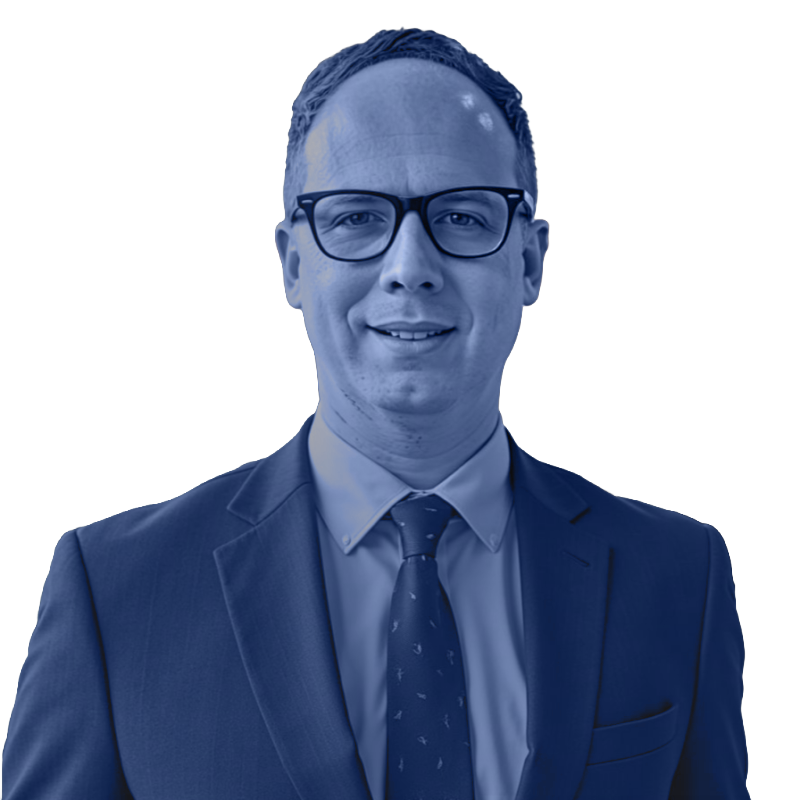
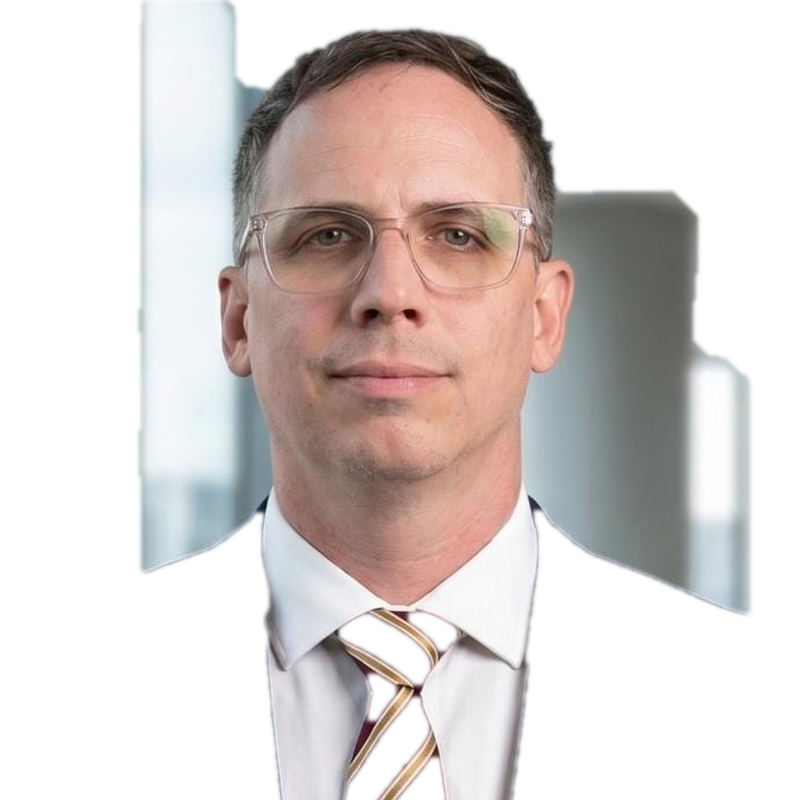
Add files via upload

diff --git a/index.html b/index.html
@@ -322,7 +322,7 @@
       </div>
       <div class="sec-bar-item">
         <div class="sec-bar-label">
-          <span class="sec-bar-name">Agro</span>
+          <span class="sec-bar-name">Agroindustria y Alimentos</span>
           <span class="sec-bar-pct">58%</span>
         </div>
         <div class="sec-bar-track"><div class="sec-bar-fill" style="--pct:58%"></div></div>
@@ -400,7 +400,7 @@
           <h3 class="q-name">Gonzalo Fernández Somoza</h3>
           <p class="q-bio">Administrador de Empresas. Especialista en transformación operacional, estrategia de negocios e IA aplicada a la eficiencia empresarial. Más de una década asesorando PyMEs en Argentina.</p>
           <div class="q-social">
-            <a href="https://wa.me/5491161671305" class="q-social-link" target="_blank" rel="noopener" aria-label="WhatsApp">
+            <a href="https://wa.me/5491153774508" class="q-social-link" target="_blank" rel="noopener" aria-label="WhatsApp">
               <svg viewBox="0 0 30 30" fill="currentColor"><path d="M 15 3 C 8.373 3 3 8.373 3 15 C 3 17.251208 3.6323415 19.350068 4.7109375 21.150391 L 3.1074219 27 L 9.0820312 25.431641 C 10.829354 26.425062 12.84649 27 15 27 C 21.627 27 27 21.627 27 15 C 27 8.373 21.627 3 15 3 z M 10.892578 9.4023438 C 11.087578 9.4023438 11.287937 9.4011562 11.460938 9.4101562 C 11.674938 9.4151563 11.907859 9.4308281 12.130859 9.9238281 C 12.395859 10.509828 12.972875 11.979906 13.046875 12.128906 C 13.120875 12.277906 13.173313 12.453437 13.070312 12.648438 C 12.972312 12.848437 12.921344 12.969484 12.777344 13.146484 C 12.628344 13.318484 12.465078 13.532109 12.330078 13.662109 C 12.181078 13.811109 12.027219 13.974484 12.199219 14.271484 C 12.371219 14.568484 12.968563 15.542125 13.851562 16.328125 C 14.986562 17.342125 15.944188 17.653734 16.242188 17.802734 C 16.540187 17.951734 16.712766 17.928516 16.884766 17.728516 C 17.061766 17.533516 17.628125 16.864406 17.828125 16.566406 C 18.023125 16.268406 18.222188 16.319969 18.492188 16.417969 C 18.766188 16.515969 20.227391 17.235766 20.525391 17.384766 C 20.823391 17.533766 21.01875 17.607516 21.09375 17.728516 C 21.17075 17.853516 21.170828 18.448578 20.923828 19.142578 C 20.676828 19.835578 19.463922 20.505734 18.919922 20.552734 C 18.370922 20.603734 17.858562 20.7995 15.351562 19.8125 C 12.327563 18.6215 10.420484 15.524219 10.271484 15.324219 C 10.122484 15.129219 9.0605469 13.713906 9.0605469 12.253906 C 9.0605469 10.788906 9.8286563 10.071437 10.097656 9.7734375 C 10.371656 9.4754375 10.692578 9.4023438 10.892578 9.4023438 z"/></svg>
             </a>
             <a href="https://www.linkedin.com/in/gonzalo-fernandez-somoza-8723a7284/" class="q-social-link" target="_blank" rel="noopener" aria-label="LinkedIn">
@@ -489,7 +489,7 @@
 
       <form class="contact-form" id="contact-form">
         <input type="hidden" name="access_key" value="f116629d-7bd5-48ce-b28a-86ec5a387664">
-        <input type="hidden" name="subject" value="Nueva consulta desde jmmgfsconsultores.com">
+        <input type="hidden" name="subject" value="Nueva consulta desde gfsjmmconsultores.com">
         <input type="hidden" name="from_name" value="Web JMMGFS">
         <div class="cf-row">
           <div class="cf-field">
@@ -528,6 +528,9 @@
           <label class="cf-label" for="cf-msg">Mensaje</label>
           <textarea class="cf-input cf-textarea" id="cf-msg" name="mensaje" placeholder="Contanos brevemente tu situación o consulta…" rows="5" required></textarea>
         </div>
+        <div class="cf-field">
+          <div class="h-captcha" data-sitekey="TU_SITEKEY_DE_HCAPTCHA" data-theme="dark"></div>
+        </div>
         <button type="submit" class="cf-submit" id="cf-submit-btn">Enviar mensaje →</button>
       </form>
 
@@ -554,7 +557,7 @@
           <a href="https://instagram.com/jmmgfsconsultores" class="foot-social-link" target="_blank" rel="noopener" aria-label="Instagram">
             <svg viewBox="0 0 24 24" fill="currentColor"><path d="M12 2.163c3.204 0 3.584.012 4.85.07 3.252.148 4.771 1.691 4.919 4.919.058 1.265.069 1.645.069 4.849 0 3.205-.012 3.584-.069 4.849-.149 3.225-1.664 4.771-4.919 4.919-1.266.058-1.644.07-4.85.07-3.204 0-3.584-.012-4.849-.07-3.26-.149-4.771-1.699-4.919-4.92-.058-1.265-.07-1.644-.07-4.849 0-3.204.013-3.583.07-4.849.149-3.227 1.664-4.771 4.919-4.919 1.266-.057 1.645-.069 4.849-.069zM12 0C8.741 0 8.333.014 7.053.072 2.695.272.273 2.69.073 7.052.014 8.333 0 8.741 0 12c0 3.259.014 3.668.072 4.948.2 4.358 2.618 6.78 6.98 6.98C8.333 23.986 8.741 24 12 24c3.259 0 3.668-.014 4.948-.072 4.354-.2 6.782-2.618 6.979-6.98.059-1.28.073-1.689.073-4.948 0-3.259-.014-3.667-.072-4.947-.196-4.354-2.617-6.78-6.979-6.98C15.668.014 15.259 0 12 0zm0 5.838a6.162 6.162 0 100 12.324 6.162 6.162 0 000-12.324zM12 16a4 4 0 110-8 4 4 0 010 8zm6.406-11.845a1.44 1.44 0 100 2.881 1.44 1.44 0 000-2.881z"/></svg>
           </a>
-          <a href="https://wa.me/5491161671305" class="foot-social-link" target="_blank" rel="noopener" aria-label="WhatsApp">
+          <a href="https://wa.me/5491153774508" class="foot-social-link" target="_blank" rel="noopener" aria-label="WhatsApp">
             <svg viewBox="0 0 30 30" fill="currentColor"><path d="M 15 3 C 8.373 3 3 8.373 3 15 C 3 17.251208 3.6323415 19.350068 4.7109375 21.150391 L 3.1074219 27 L 9.0820312 25.431641 C 10.829354 26.425062 12.84649 27 15 27 C 21.627 27 27 21.627 27 15 C 27 8.373 21.627 3 15 3 z M 10.892578 9.4023438 C 11.087578 9.4023438 11.287937 9.4011562 11.460938 9.4101562 C 11.674938 9.4151563 11.907859 9.4308281 12.130859 9.9238281 C 12.395859 10.509828 12.972875 11.979906 13.046875 12.128906 C 13.120875 12.277906 13.173313 12.453437 13.070312 12.648438 C 12.972312 12.848437 12.921344 12.969484 12.777344 13.146484 C 12.628344 13.318484 12.465078 13.532109 12.330078 13.662109 C 12.181078 13.811109 12.027219 13.974484 12.199219 14.271484 C 12.371219 14.568484 12.968563 15.542125 13.851562 16.328125 C 14.986562 17.342125 15.944188 17.653734 16.242188 17.802734 C 16.540187 17.951734 16.712766 17.928516 16.884766 17.728516 C 17.061766 17.533516 17.628125 16.864406 17.828125 16.566406 C 18.023125 16.268406 18.222188 16.319969 18.492188 16.417969 C 18.766188 16.515969 20.227391 17.235766 20.525391 17.384766 C 20.823391 17.533766 21.01875 17.607516 21.09375 17.728516 C 21.17075 17.853516 21.170828 18.448578 20.923828 19.142578 C 20.676828 19.835578 19.463922 20.505734 18.919922 20.552734 C 18.370922 20.603734 17.858562 20.7995 15.351562 19.8125 C 12.327563 18.6215 10.420484 15.524219 10.271484 15.324219 C 10.122484 15.129219 9.0605469 13.713906 9.0605469 12.253906 C 9.0605469 10.788906 9.8286563 10.071437 10.097656 9.7734375 C 10.371656 9.4754375 10.692578 9.4023438 10.892578 9.4023438 z"/></svg>
           </a>
           <a href="https://linkedin.com/company/jmmgfsconsultores" class="foot-social-link" target="_blank" rel="noopener" aria-label="LinkedIn">
@@ -590,9 +593,9 @@
         <h4>Contacto</h4>
         <p class="foot-contact-data">
           <strong>Email</strong><br>
-          gfs@jmmgfsconsultores.com<br><br>
+          fernandez.gonzalo@gfsjmmconsultores.com<br><br>
           <strong>WhatsApp</strong><br>
-          +54 9 11 6167-1305<br><br>
+          +54 9 11 5377-4508<br><br>
           <strong>Ubicación</strong><br>
           Buenos Aires, Argentina
         </p>
@@ -610,12 +613,13 @@
   </footer>
 
   <!-- Floating WhatsApp -->
-  <a href="https://wa.me/5491161671305" class="wa-float" target="_blank" rel="noopener" aria-label="WhatsApp">
+  <a href="https://wa.me/5491153774508" class="wa-float" target="_blank" rel="noopener" aria-label="WhatsApp">
     <svg viewBox="0 0 30 30" fill="currentColor"><path d="M 15 3 C 8.373 3 3 8.373 3 15 C 3 17.251208 3.6323415 19.350068 4.7109375 21.150391 L 3.1074219 27 L 9.0820312 25.431641 C 10.829354 26.425062 12.84649 27 15 27 C 21.627 27 27 21.627 27 15 C 27 8.373 21.627 3 15 3 z M 10.892578 9.4023438 C 11.087578 9.4023438 11.287937 9.4011562 11.460938 9.4101562 C 11.674938 9.4151563 11.907859 9.4308281 12.130859 9.9238281 C 12.395859 10.509828 12.972875 11.979906 13.046875 12.128906 C 13.120875 12.277906 13.173313 12.453437 13.070312 12.648438 C 12.972312 12.848437 12.921344 12.969484 12.777344 13.146484 C 12.628344 13.318484 12.465078 13.532109 12.330078 13.662109 C 12.181078 13.811109 12.027219 13.974484 12.199219 14.271484 C 12.371219 14.568484 12.968563 15.542125 13.851562 16.328125 C 14.986562 17.342125 15.944188 17.653734 16.242188 17.802734 C 16.540187 17.951734 16.712766 17.928516 16.884766 17.728516 C 17.061766 17.533516 17.628125 16.864406 17.828125 16.566406 C 18.023125 16.268406 18.222188 16.319969 18.492188 16.417969 C 18.766188 16.515969 20.227391 17.235766 20.525391 17.384766 C 20.823391 17.533766 21.01875 17.607516 21.09375 17.728516 C 21.17075 17.853516 21.170828 18.448578 20.923828 19.142578 C 20.676828 19.835578 19.463922 20.505734 18.919922 20.552734 C 18.370922 20.603734 17.858562 20.7995 15.351562 19.8125 C 12.327563 18.6215 10.420484 15.524219 10.271484 15.324219 C 10.122484 15.129219 9.0605469 13.713906 9.0605469 12.253906 C 9.0605469 10.788906 9.8286563 10.071437 10.097656 9.7734375 C 10.371656 9.4754375 10.692578 9.4023438 10.892578 9.4023438 z"/></svg>
   </a>
 
   <script src="js/main.js"></script>
   <script src="js/booking.js"></script>
+  <script src="https://js.hcaptcha.com/1/api.js" async defer></script>
   <script src="js/contact.js"></script>
 </body>
 </html>

diff --git a/js/contact.js b/js/contact.js
@@ -7,10 +7,18 @@
 
   form.addEventListener('submit', async function (e) {
     e.preventDefault();
+
+    const captchaToken = typeof hcaptcha !== 'undefined' ? hcaptcha.getResponse() : '';
+    if (!captchaToken) {
+      alert('Por favor completá el captcha antes de enviar.');
+      return;
+    }
+
     btn.disabled = true;
     btn.textContent = 'Enviando…';
 
     const data = Object.fromEntries(new FormData(form));
+    data['h-captcha-response'] = captchaToken;
     try {
       const res = await fetch('https://api.web3forms.com/submit', {
         method: 'POST',
@@ -27,6 +35,7 @@
     } catch (err) {
       btn.disabled = false;
       btn.textContent = 'Enviar mensaje →';
+      if (typeof hcaptcha !== 'undefined') hcaptcha.reset();
       alert('Hubo un error al enviar. Por favor intentá de nuevo o escribinos por WhatsApp.');
     }
   });

diff --git a/js/booking.js b/js/booking.js
@@ -1,6 +1,6 @@
 /* Booking calendar — Mon–Fri, 09:00–18:00 */
 (function () {
-  const BOOKING_EMAIL = 'fernandez.gonzalo@jmmgfsconsultores.com';
+  const BOOKING_EMAIL = 'fernandez.gonzalo@gfsjmmconsultores.com';
   const HOURS = ['09:00','10:00','11:00','12:00','13:00','14:00','15:00','16:00','17:00','18:00'];
   const MONTHS_ES = ['Enero','Febrero','Marzo','Abril','Mayo','Junio','Julio','Agosto','Septiembre','Octubre','Noviembre','Diciembre'];
   const DAYS_ES = ['domingo','lunes','martes','miércoles','jueves','viernes','sábado'];
